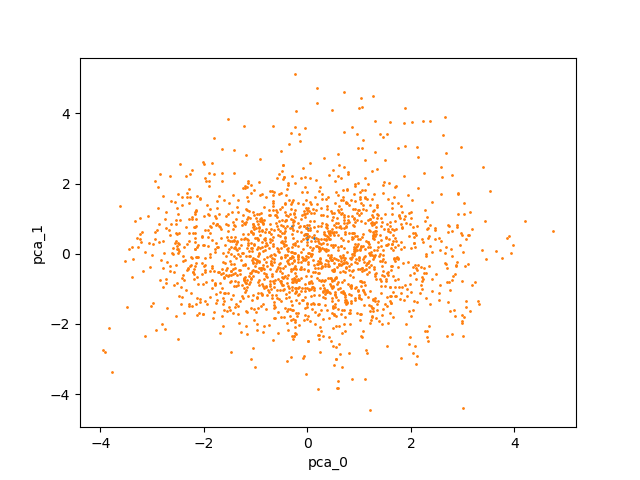
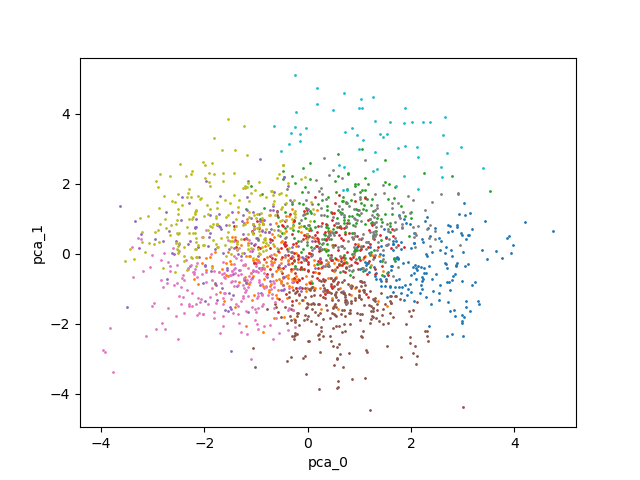
better plots with kmeans

diff --git a/examples/PCA_err_clusters_in_param_space/configuration/configure_err_clustering.py b/examples/PCA_err_clusters_in_param_space/configuration/configure_err_clustering.py
@@ -37,12 +37,13 @@ pipeline_configuration[2] = OrderedDict()
 pipeline_configuration[2]['segment_type'] = 'cluster'
 pipeline_configuration[2]['function_calls'] = OrderedDict()
 pipeline_configuration[2]['function_calls'][0]= OrderedDict()
-pipeline_configuration[2]['function_calls'][0]['function'] = 'cluster_dbscan'
+pipeline_configuration[2]['function_calls'][0]['function'] = 'cluster_kmeans'
 pipeline_configuration[2]['function_calls'][0]['args'] = OrderedDict()
 pipeline_configuration[2]['function_calls'][0]['args']['cols'] = ['pca']
 pipeline_configuration[2]['function_calls'][0]['args']['clusters'] = None
 pipeline_configuration[2]['function_calls'][0]['args']['kwargs'] = OrderedDict()
-pipeline_configuration[2]['function_calls'][0]['args']['kwargs']['dbscan'] = OrderedDict()
+pipeline_configuration[2]['function_calls'][0]['args']['kwargs']['kmeans'] = OrderedDict()
+pipeline_configuration[2]['function_calls'][0]['args']['kwargs']['kmeans']['n_clusters'] = 10
 
 # define fourth segment (plotting)
 pipeline_configuration[3] = OrderedDict()

diff --git a/examples/PCA_param_clusters_in_qoi_space/configuration/configure_param_clustering.py b/examples/PCA_param_clusters_in_qoi_space/configuration/configure_param_clustering.py
@@ -37,12 +37,13 @@ pipeline_configuration[2] = OrderedDict()
 pipeline_configuration[2]['segment_type'] = 'cluster'
 pipeline_configuration[2]['function_calls'] = OrderedDict()
 pipeline_configuration[2]['function_calls'][0]= OrderedDict()
-pipeline_configuration[2]['function_calls'][0]['function'] = 'cluster_dbscan'
+pipeline_configuration[2]['function_calls'][0]['function'] = 'cluster_kmeans'
 pipeline_configuration[2]['function_calls'][0]['args'] = OrderedDict()
 pipeline_configuration[2]['function_calls'][0]['args']['cols'] = ['pca']
 pipeline_configuration[2]['function_calls'][0]['args']['clusters'] = None
 pipeline_configuration[2]['function_calls'][0]['args']['kwargs'] = OrderedDict()
-pipeline_configuration[2]['function_calls'][0]['args']['kwargs']['dbscan'] = OrderedDict()
+pipeline_configuration[2]['function_calls'][0]['args']['kwargs']['kmeans'] = OrderedDict()
+pipeline_configuration[2]['function_calls'][0]['args']['kwargs']['kmeans']['n_clusters'] = 10
 
 # define fourth segment (plotting)
 pipeline_configuration[3] = OrderedDict()
